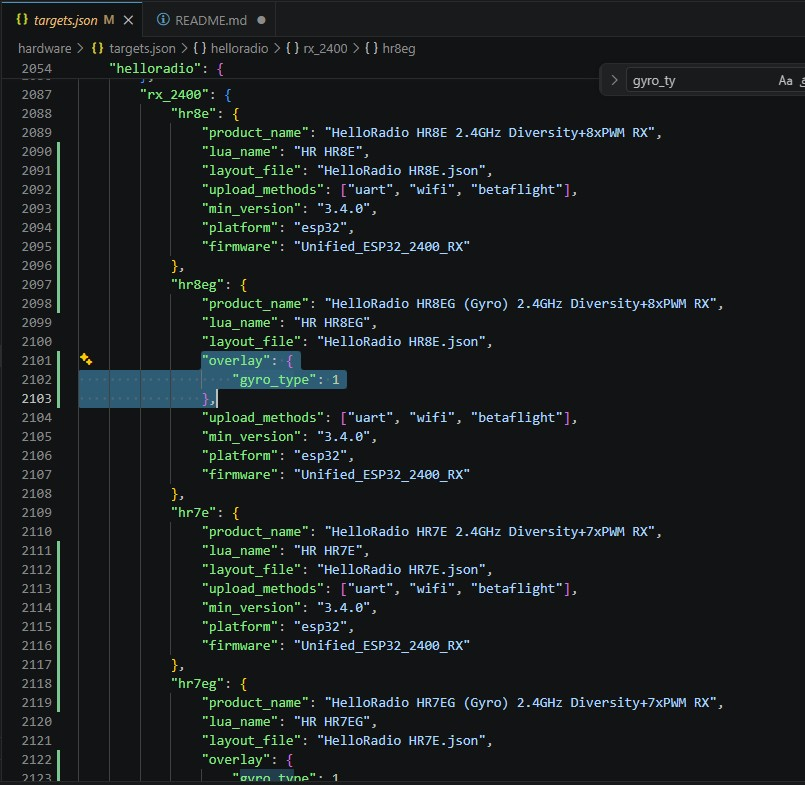
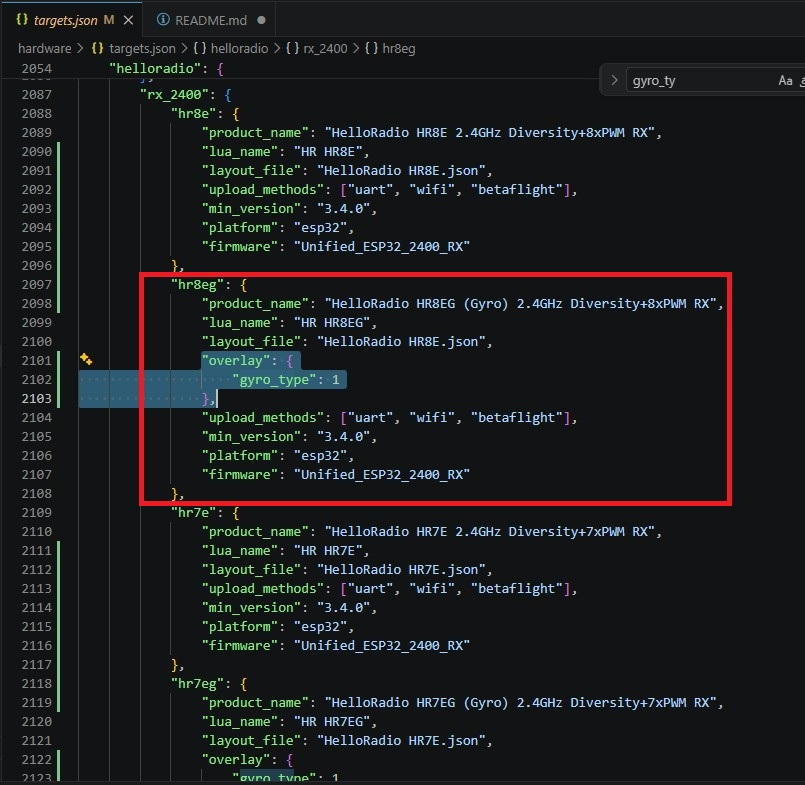
updated doc

Changed region(s): [[0.1553, 0.3363, 0.9317, 0.6726]]

diff --git a/gyro_doc/README.md b/gyro_doc/README.md
@@ -321,8 +321,10 @@ the "hr8e" is the original target, and we copy it to create "hr8g".  Note the th
 
 You can download my copy of the targets.json who has the HR7EG,HR8EG and the SuperP:
 
-[hardware\targets.json](hardware\targets.json)
+[hardware/targets.json](hardware/targets.json)
 
 If you have Radiomaster ER6/ER8, you can just create a copy and add the gyro_type, also in the overlay you can set changes needed for PWM and I2C pins.
 
-For the ones using the LSM6DSO chip, you can download the file needed from here for some common RXs: [hardware\RX] (hardware\RX).
+For the ones using the LSM6DSO chip, you can download the file needed from here for some common RXs: [hardware/RX] (hardware/RX).
+
+After this, your new RX should show in the targets of the ELRS configurator.
